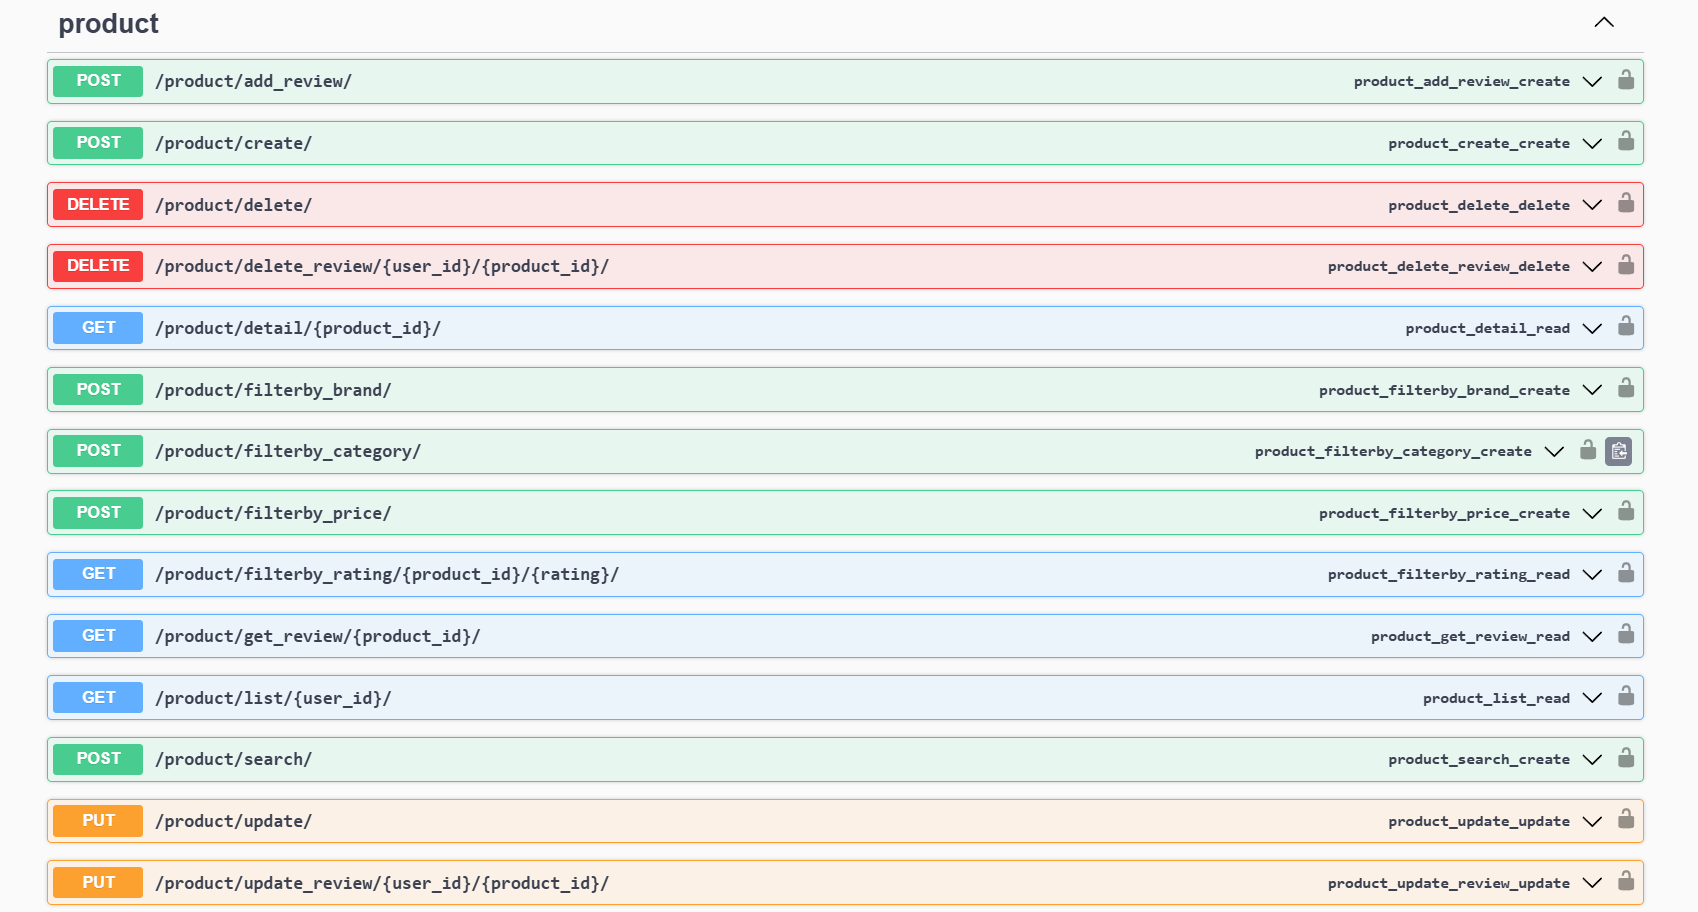
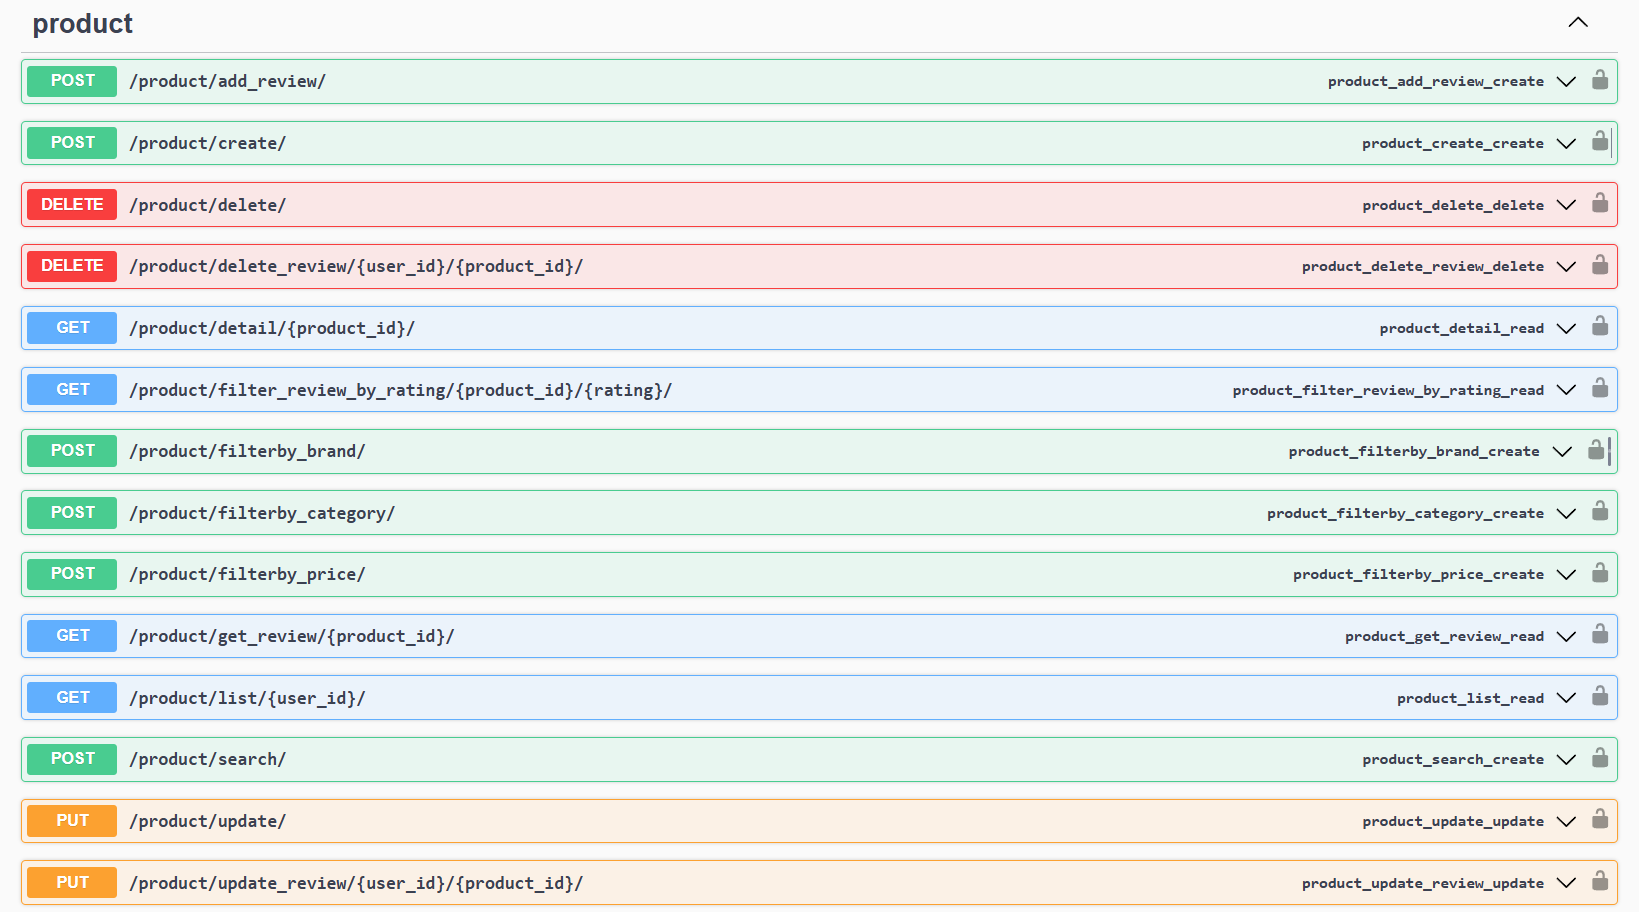
Refactor URL patterns for product rating and update wishlist response status; add API documentation

diff --git a/Ecommerce/product/urls.py b/Ecommerce/product/urls.py
@@ -11,7 +11,7 @@ urlpatterns = [
     path('filterby_category/', views.product_category, name='product_category'),
     path('filterby_brand/', views.product_brand, name='product_brand'),
     path('filterby_price/', views.product_price, name='product_price'),
-    path('filterby_rating/<int:product_id>/<int:rating>/', views.product_rating ,name='product_rating'),
+    path('filter_review_by_rating/<int:product_id>/<int:rating>/', views.product_rating ,name='product_rating'),
     path('add_review/', views.add_review, name='add_review'),
     path('get_review/<int:product_id>/', views.get_reviews, name='get_review'),
     path('update_review/<int:user_id>/<int:product_id>/', views.update_review, name='update_review'),

diff --git a/Ecommerce/user/views.py b/Ecommerce/user/views.py
@@ -121,7 +121,7 @@ def get_wishlist(request , user_id):
           wish['product']['available'] = 'Out of stock'
       return Response(wishdict, status=status.HTTP_200_OK)
     else:
-      return Response( {'error':'Wishlist is empty'}, status=status.HTTP_400_BAD_REQUEST)
+      return Response( {'error':'Wishlist is empty'}, status=status.HTTP_200_OK)
   except:
     return Response( {'error':'Wishlist is empty'}, status=status.HTTP_400_BAD_REQUEST)
   

diff --git a/API_DOCS.md b/API_DOCS.md
@@ -1,0 +1,168 @@
+# API Docs
+
+## Table of Contents
+- [Order API](#order-api)
+- [Payment API](#payment-api)
+- [Product API](#product-api)
+
+
+## Order API
+### Order API Overview
+The Order API is used to manage orders in the system. It allows you to create and read orders.
+
+### Order API Endpoints
+1. #### `POST /order/create/{user_id}`
+    **Description**: Creates a new order for the specified user.
+
+    The JSON object represents an order submitted by a user.
+    - **`payment_method`**: The payment method used for the order (e.g. `cod` for Cash on Delivery, and `online` for Online Payment).
+    - **`address`**: The address to which the order should be delivered.
+
+    Request Payload:
+    ```sh
+    {
+        "payment_method": "cod",
+        "address": "user_adress"
+    }
+    ```
+
+2. #### `GET /order/get_all_orders/{user_id}/`
+    **Description**: Retrieves all orders for the specified user.
+
+3. #### `GET /order/get_order/{order_id}/`
+    **Description**: Retrieves a specific order by its ID.
+
+## Payment API
+### Payment API Overview
+The Payment API is used to manage payments in the system. It allows you to create payments
+
+### Payment API Endpoints
+1. #### `POST /payment/make_payment/{order_id}`
+    **Description**: Makes a payment for the specified order.
+
+    The JSON object represents a payment submitted by a user.
+    - **`payment_method_id`**: The ID of the payment method used for the payment.
+
+    Request Payload:
+    ```sh
+    {
+        "payment_method_id": "pm_card_visa"
+    }
+    ```
+
+## Product API
+### Product API Overview
+The Product API is used to manage products in the system. It allows you to create, read and update products and manage their reviews and ratings along with filtering of products based on Price, Category, Rating and filtering product reviews based on Ratings.
+
+### Product API Endpoints
+1. #### `POST /product/add_review/`
+    **Description**: Adds a review for a product.
+
+    This JSON object represents a product review submitted by a user.
+    - **`user`**: The ID of the user who submitted the review.
+    - **`product`**: The ID of the product being reviewed.
+    - **`rating`**: The rating given to the product by the user (out of 5).
+    - **`review`**: The textual review provided by the user.
+
+    Request Payload:
+    ```sh
+    {
+        "user": 4,
+        "product": 3,
+        "rating": 5,
+        "review": "Good product"
+    }
+    ```
+
+2. #### `POST /product/create/`
+    **Description**: Creates a new product in the system.
+
+    The JSON object represents a product to be created.
+    - **`name`**: The name of the product.
+    - **`description`**: The description of the product.
+    - **`price`**: The price of the product.
+    - **`quantity`**: The quantity of the product available.
+    - **`brand`**: The brand of the product.
+    - **`category`**: The category of the product.
+    - **`image_path`**: The path to the image of the product.
+
+    Request Payload:
+    ```sh
+    {
+        "name": "Product",
+        "description": "Product Description",
+        "price": 40.00,
+        "quantity": 5,
+        "brand": "Brand Name",
+        "category": "Category",
+        "image_path": "/images/products/product.jpg"
+    }
+    ```
+
+3. #### `DELETE /product/delete/`
+    **Description**: Deletes a product from the system.
+
+    The JSON object represents the product to be deleted.
+    - **`id`**: The ID of the product to be deleted.
+
+    Request Payload:
+    ```sh
+    {
+        "id": 1
+    }
+    ```
+
+4. #### `DELETE /product/delete_review/{user_id}/{product_id}/`
+    **Description**: Deletes a review for a product.
+    - **`user_id`**: The ID of the user who submitted the review.
+    - **`product_id`**: The ID of the product being reviewed.
+
+5. #### `GET /product/detail/{product_id}/`
+    **Description**: Retrieves the details of a specific product by its ID.
+    - **`product_id`**: The ID of the product.
+
+6. #### `GET /product/filter_review_by_rating/{product_id}/{rating}/`
+    **Description**: Retrieves reviews for a product filtered by rating.
+    - **`product_id`**: The ID of the product.
+    - **`rating`**: The rating to filter by.
+
+7. #### `POST /product/filterby_brand/`
+    **Description**: Retrieves products filtered by brand.
+
+    The JSON object represents the filter criteria.
+    - **`brand`**: The brand to filter by.
+
+    Request Payload:
+    ```sh
+    {
+        "brand": "Brand Name"
+    }
+    ```
+
+8. #### `POST /product/filterby_category/`
+    **Description**: Retrieves products filtered by category.
+
+    The JSON object represents the filter criteria.
+    - **`category`**: The category to filter by.
+
+    Request Payload:
+    ```sh
+    {
+        "category": "Category Name"
+    }
+    ```
+
+9. #### `POST /product/filterby_price/`
+    **Description**: Retrieves products filtered by price range.
+
+    The JSON object represents the filter criteria.
+    - **`min_price`**: The minimum price.
+    - **`max_price`**: The maximum price.
+
+    Request Payload:
+    ```sh
+    {
+        "min_price": 20.00,
+        "max_price": 50.00
+    }
+    ```

diff --git a/README.md b/README.md
@@ -77,7 +77,7 @@ This is an E-Commerce API built with Django and Django REST framework. It provid
 
 8. **Run the development server:**
     ```sh
-    python manage.py runserver
+    python manage.py runserver 8080
     ```
 
 ## Usage
